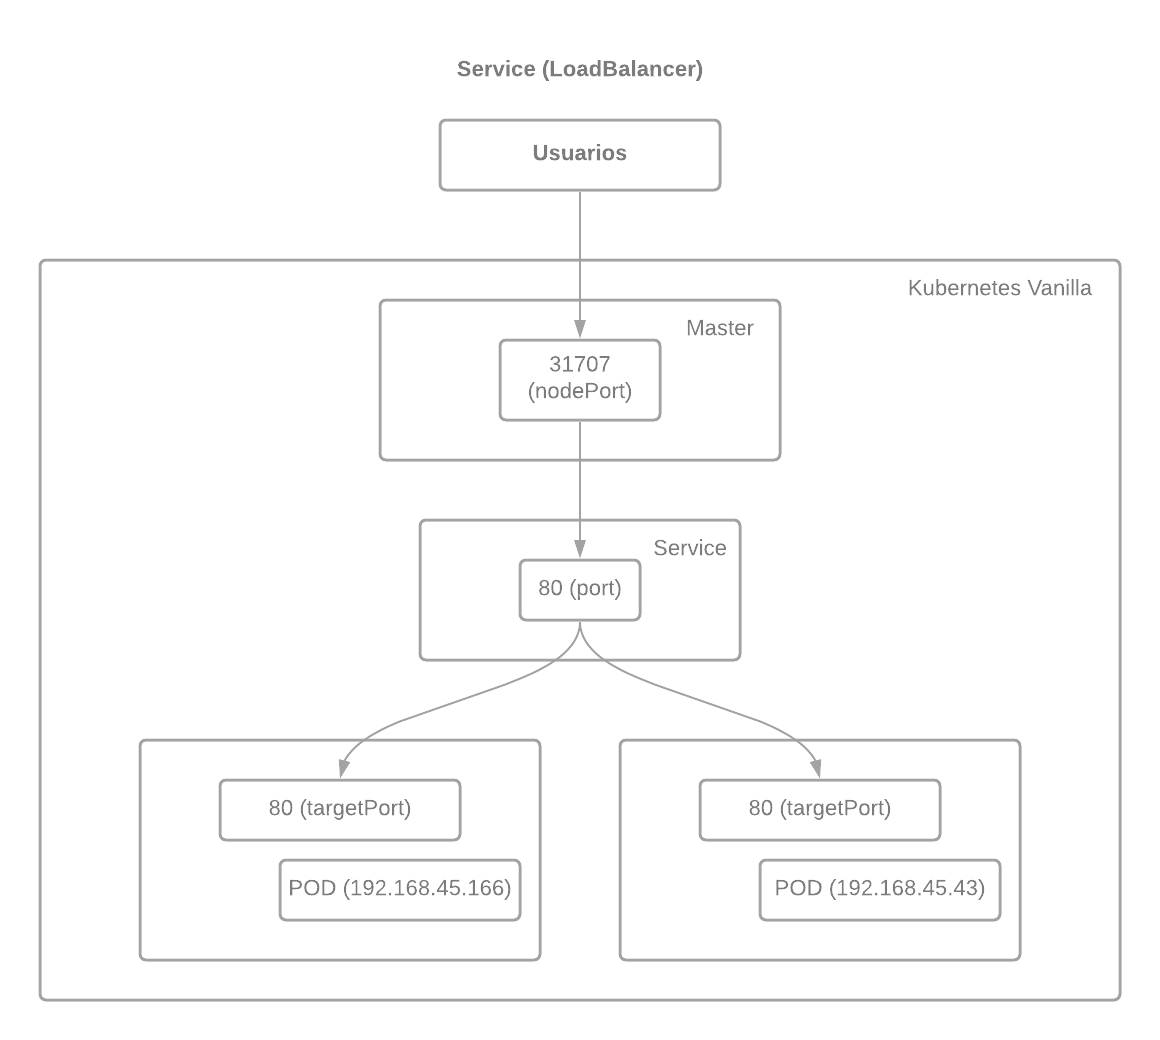
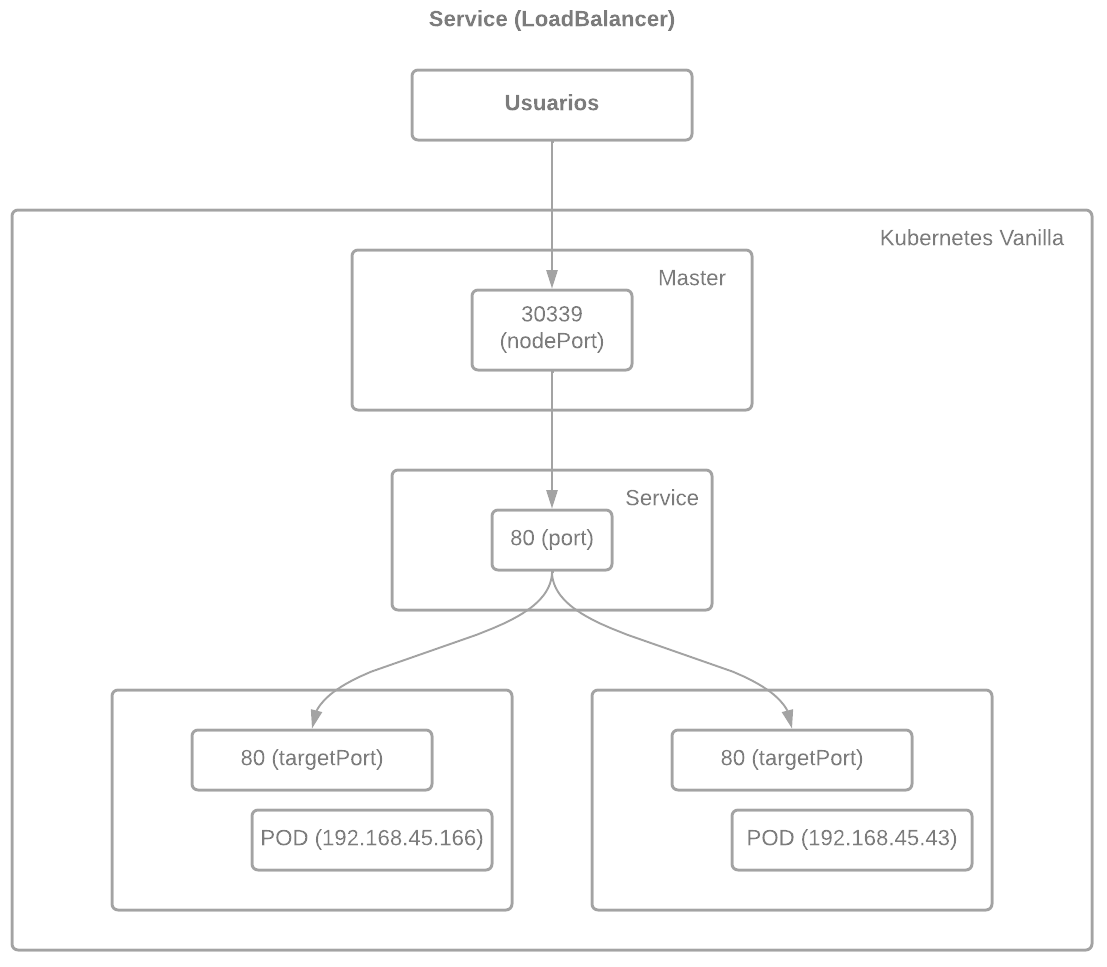
balanced

Changed region(s): [[0.0, 0.062, 1.0, 0.9928], [0.3686, 0.0, 0.6143, 0.031]]

diff --git a/labs-k8s/10-desplegando-aplicación-balanceada.md b/labs-k8s/10-desplegando-aplicación-balanceada.md
@@ -357,15 +357,17 @@ tcp        0      0 0.0.0.0:30339           0.0.0.0:*               LISTEN
 [kubeadmin@kubemaster webapp-balanced]$
 ```
 
-> ![HOMEWORK](../imgs/homework-icon.png) También en los workers. Prueba a acceder a los workers y al puerto **30339**.
+> ![HOMEWORK](../imgs/homework-icon.png) También en los workers.
 
 Si accedemos a la aplicación por ese puerto:
 
 ![IMG](../imgs/webapp-balanced-nodeport.png)
 
+> ![HOMEWORK](../imgs/homework-icon.png) Prueba a acceder a los workers y al puerto **30339**.
+
 Si recargamos la página con el navegador veremos que la dirección IP no cambia. Si lo hacemos varias veces terminará cambiando la dirección IP (balanceará al otro contenedor).
 
-Cuando accedemos al servicio por **http://foo-balanced.bar:31826/balanced** estamos accediendo por el ingress, que reenvia la petición al servicio y desde el servicio se balancea a los pods que se encuentren levantados. Sin embargro, cuando accedemos utilizando el nodePort creado al indicar que el servicio es de tipo **LoadBalancer**, es decir por la url **http://foo-balanced.bar:30339**, estamos accediendo por el balanceador creado.
+Cuando accedemos al servicio por **http://foo-balanced.bar:31826/balanced** estamos accediendo por el ingress, que reenvia la petición al servicio y desde el servicio se balancea a los pods que se encuentren levantados. Sin embargo, cuando accedemos utilizando el nodePort creado al indicar que el servicio es de tipo **LoadBalancer**, es decir por la url **http://foo-balanced.bar:30339**, estamos accediendo por el balanceador creado.
 
 Luego con esta configuración tenemos dos accesos posibles a la aplicación.
 
@@ -381,22 +383,22 @@ Si utilizamos un servicio de tipo **LoadBalancer** no necesitaremos crear el ing
 
 ![IMG](../imgs/SVC-LoadBalancer.png)
 
-Desplegar en un service provider implica integrar kubernetes con el service provider. Para está integración se desplegará el [Cloud Controller Manager de Kubernetes](https://kubernetes.io/docs/concepts/architecture/cloud-controller/) que permitirá la integración de Kubernetes con el proveedor cloud.
+Desplegar en un cloud provider implica integrar kubernetes con el cloud provider. Para está integración se desplegará el [Cloud Controller Manager de Kubernetes](https://kubernetes.io/docs/concepts/architecture/cloud-controller/) que permitirá la integración de Kubernetes con el proveedor cloud.
 
 En este caso el desplegar con un servicio de tipo **LoadBalancer** desplegaría un balanceador de carga en el cloud provider y tendríamos algo similar a:
 
 ![IMG](../imgs/SVC-LoadBalancer-Cloud-Provider.png)
 
 ```console
-[kubeadmin@kubemaster network-policies]$ kubectl get svc balanced-service --namespace webapp-balanced -o wide
-NAME               TYPE           CLUSTER-IP      EXTERNAL-IP   PORT(S)        AGE    SELECTOR
-balanced-service   LoadBalancer   10.107.139.65   <pending>     80:30551/TCP   133m   app=webapp-balanced
-[kubeadmin@kubemaster network-policies]$
+[kubeadmin@kubemaster webapp-balanced]$ kubectl get svc balanced-service --namespace webapp-balanced -o wide
+NAME               TYPE           CLUSTER-IP      EXTERNAL-IP   PORT(S)        AGE     SELECTOR
+balanced-service   LoadBalancer   10.110.197.47   <pending>     80:30339/TCP   5h35m   app=webapp-balanced
+[kubeadmin@kubemaster webapp-balanced]$
 ```
 
-Podemos observar que la **EXTERNAL-IP** se queda en **<pending>**. Ello es debido a que como no se despliega un balanceador al no estar desplegado kubernetes en un proveedor cloud y con integración en el mismo no se desplegará un balanceador.
+Podemos observar que la **EXTERNAL-IP** se queda en **\<pending>**. Ello es debido a que no se despliega un balanceador al no estar desplegado kubernetes en un proveedor cloud, con integración en el mismo.
 
-En este caso para evitar que se cree un NodePort será necesario especificar en el servicio:
+En este caso para evitar que se cree un NodePort y que se acceda por el ingress será necesario especificar en el servicio:
 
 ```yaml
 spec:
@@ -405,7 +407,48 @@ spec:
   ...
 ```
 
-> ![HOMEWORK](../imgs/homework-icon.png) Redespliega la aplicación eliminando el ingress. Verifica que se realiza el balanceo.
+Si desplegamos añandiendo lo anterior tendremos:
+
+```yaml
+[kubeadmin@kubemaster webapp-balanced]$ kubectl get svc balanced-service --namespace webapp-balanced -o yaml
+apiVersion: v1
+kind: Service
+metadata:
+  annotations:
+    kubectl.kubernetes.io/last-applied-configuration: |
+      {"apiVersion":"v1","kind":"Service","metadata":{"annotations":{},"name":"balanced-service","namespace":"webapp-balanced"},"spec":{"allocateLoadBalancerNodePorts":false,"ports":[{"name":"http","port":80,"protocol":"TCP","targetPort":80}],"selector":{"app":"webapp-balanced"},"type":"LoadBalancer"}}
+  creationTimestamp: "2022-02-17T00:47:02Z"
+  name: balanced-service
+  namespace: webapp-balanced
+  resourceVersion: "194377"
+  uid: 044c2f94-774a-48ad-854c-4afa5539b8ce
+spec:
+  allocateLoadBalancerNodePorts: false
+  clusterIP: 10.109.158.179
+  clusterIPs:
+  - 10.109.158.179
+  externalTrafficPolicy: Cluster
+  internalTrafficPolicy: Cluster
+  ipFamilies:
+  - IPv4
+  ipFamilyPolicy: SingleStack
+  ports:
+  - name: http
+    port: 80
+    protocol: TCP
+    targetPort: 80
+  selector:
+    app: webapp-balanced
+  sessionAffinity: None
+  type: LoadBalancer
+status:
+  loadBalancer: {}
+[kubeadmin@kubemaster webapp-balanced]$
+```
+
+Podemos observar que el nodeport ya no se encuentra presente.
+
+> ![HOMEWORK](../imgs/homework-icon.png) Redespliega la aplicación eliminando el ingress. Verifica que se realiza el balanceo y que no hay acceso por el ingress.
 
 ## Acceso por un servicio de tipo NodePort
 
